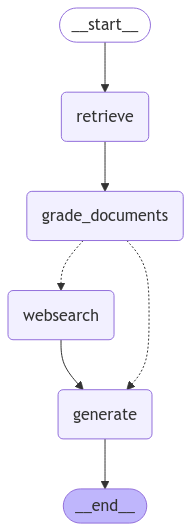
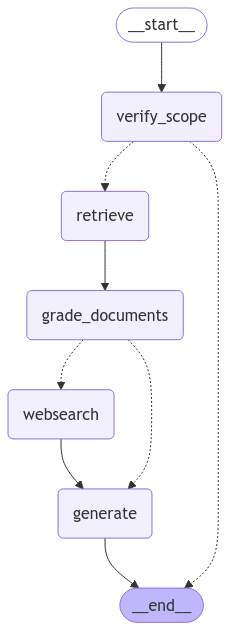
feat: Adding verification and structured response if the question is out of scope of LGPD

diff --git a/graph/graph.py b/graph/graph.py
@@ -3,34 +3,59 @@ from dotenv import load_dotenv
 from langgraph.graph import END, StateGraph
 
 from graph.consts import RETRIEVE, GRADE_DOCUMENTS, GENERATE, WEBSEARCH
-from graph.nodes import generate, grade_documents, retrieve1, web_search
+from graph.nodes.generate import generate
+from graph.nodes.grade_documents import grade_documents
+from graph.nodes.retrieve1 import retrieve1
+from graph.nodes.web_search import web_search
+from graph.nodes.verify_scope import verify_scope
 from graph.state import GraphState
 
 load_dotenv()
 
-
-def decide_to_generate(state):
-    print("---ASSESS GRADED DOCUMENTS---")
-
-    if state["web_search"]:
-        print(
-            "---DECISION: NOT ALL DOCUMENTS ARE NOT RELEVANT TO QUESTION, INCLUDE WEB SEARCH---"
-        )
-        return WEBSEARCH
-    else:
-        print("---DECISION: GENERATE---")
-        return GENERATE
-
-
 workflow = StateGraph(GraphState)
 
+# Adicionar todos os nós
+workflow.add_node("verify_scope", verify_scope)
 workflow.add_node(RETRIEVE, retrieve1)
 workflow.add_node(GRADE_DOCUMENTS, grade_documents)
 workflow.add_node(GENERATE, generate)
 workflow.add_node(WEBSEARCH, web_search)
 
-workflow.set_entry_point(RETRIEVE)
+# Definir o ponto de entrada como verify_scope
+workflow.set_entry_point("verify_scope")
+
+def decide_to_proceed(state):
+    """Decide se deve continuar com o processamento ou encerrar."""
+    if state["is_within_scope"]:
+        print("---DECISION: QUESTION IN SCOPE---")
+        return RETRIEVE
+    else:
+        print("---DECISION: QUESTION OUT OF SCOPE---")
+        return END
+
+# Adicionar arestas condicionais a partir da verificação de escopo
+workflow.add_conditional_edges(
+    "verify_scope",
+    decide_to_proceed,
+    {
+        RETRIEVE: RETRIEVE,
+        END: END,
+    },
+)
+
+# Adicionar as demais arestas do fluxo normal
 workflow.add_edge(RETRIEVE, GRADE_DOCUMENTS)
+
+def decide_to_generate(state):
+    """Decide se deve gerar resposta diretamente ou fazer busca web."""
+    print("---ASSESS GRADED DOCUMENTS---")
+    if state["web_search"]:
+        print("---DECISION: NOT ALL DOCUMENTS ARE RELEVANT, INCLUDE WEB SEARCH---")
+        return WEBSEARCH
+    else:
+        print("---DECISION: GENERATE---")
+        return GENERATE
+
 workflow.add_conditional_edges(
     GRADE_DOCUMENTS,
     decide_to_generate,
@@ -39,6 +64,7 @@ workflow.add_conditional_edges(
         GENERATE: GENERATE,
     },
 )
+
 workflow.add_edge(WEBSEARCH, GENERATE)
 workflow.add_edge(GENERATE, END)
 

diff --git a/graph/chains/scope_verification.py b/graph/chains/scope_verification.py
@@ -1,0 +1,24 @@
+from langchain_core.prompts import ChatPromptTemplate
+from langchain_openai import ChatOpenAI
+from langchain_core.output_parsers import StrOutputParser
+
+llm = ChatOpenAI(temperature=0, model="gpt-4o-mini")
+
+system = """Você é um especialista em LGPD (Lei Geral de Proteção de Dados) e deve avaliar se a pergunta está dentro do escopo da lei.
+
+Regras para determinar se está no escopo:
+- A pergunta deve estar relacionada à proteção de dados pessoais
+- Deve envolver aspectos como privacidade, tratamento de dados, direitos dos titulares, etc.
+- Questões técnicas de TI que não envolvam dados pessoais estão fora do escopo
+- Questões gerais de negócios sem relação com dados pessoais estão fora do escopo
+
+Responda apenas 'true' se estiver no escopo ou 'false' se estiver fora do escopo."""
+
+scope_prompt = ChatPromptTemplate.from_messages(
+    [
+        ("system", system),
+        ("human", "Pergunta: {question}")
+    ]
+)
+
+scope_verification_chain = scope_prompt | llm | StrOutputParser() 

diff --git a/graph/nodes/verify_scope.py b/graph/nodes/verify_scope.py
@@ -1,0 +1,31 @@
+from typing import Any, Dict
+from graph.state import GraphState
+from graph.chains.scope_verification import scope_verification_chain
+
+def verify_scope(state: GraphState) -> Dict[str, Any]:
+    """
+    Verifica se a pergunta está dentro do escopo da LGPD.
+    
+    Args:
+        state (GraphState): Estado atual do grafo
+        
+    Returns:
+        Dict[str, Any]: Estado atualizado com a verificação de escopo
+    """
+    print("---VERIFY SCOPE---")
+    question = state["question"]
+    
+    result = scope_verification_chain.invoke({"question": question})
+    is_within_scope = result.strip().lower() == "true"
+    
+    if not is_within_scope:
+        return {
+            "is_within_scope": False,
+            "generation": "Desculpe, mas esta pergunta está fora do escopo da LGPD.",
+            "question": question
+        }
+    
+    return {
+        "is_within_scope": True,
+        "question": question
+    } 

diff --git a/graph/state.py b/graph/state.py
@@ -1,18 +1,17 @@
 from typing import List, TypedDict
-
-
 class GraphState(TypedDict):
     """
     Represents the state of our graph.
 
     Attributes:
-        question: question
-        generation: LLM generation
-        web_search: whether to add search
-        documents: list of documents
+        question: A pergunta do usuário
+        generation: Resposta gerada
+        web_search: Se deve fazer busca na web
+        documents: Lista de documentos relevantes
+        is_within_scope: Se a pergunta está no escopo da LGPD
     """
-
     question: str
     generation: str
     web_search: bool
     documents: List[str]
+    is_within_scope: bool

diff --git a/main.py b/main.py
@@ -6,4 +6,4 @@ from graph.graph import app
 
 if __name__ == "__main__":
     print("Hello Advanced RAG")
-    print(app.invoke(input={"question": "Me faça um resumo dos pontos mais importantes da lei geral de proteção de dados?"}))
+    print(app.invoke(input={"question": "Como fazer pizza?"}))
